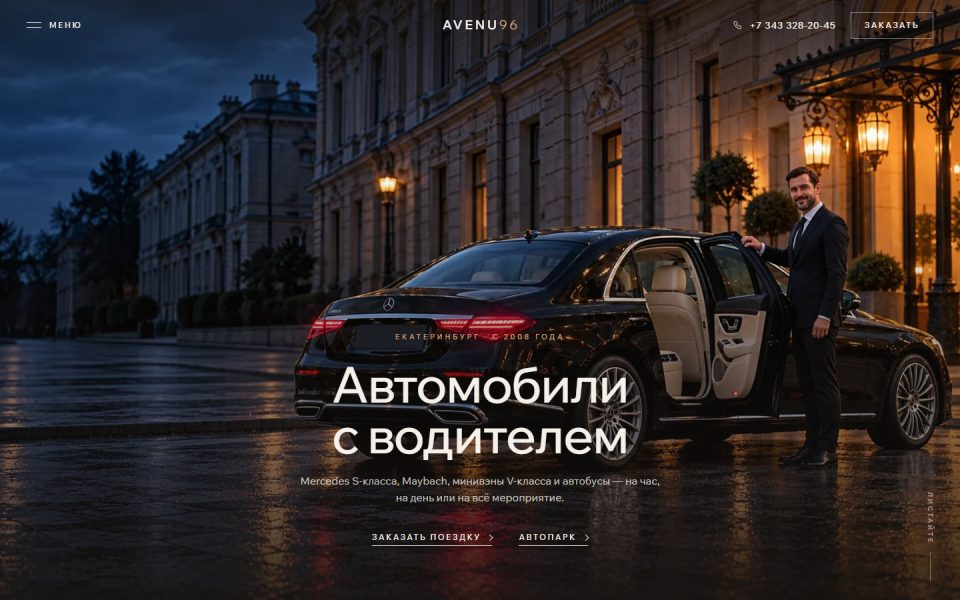
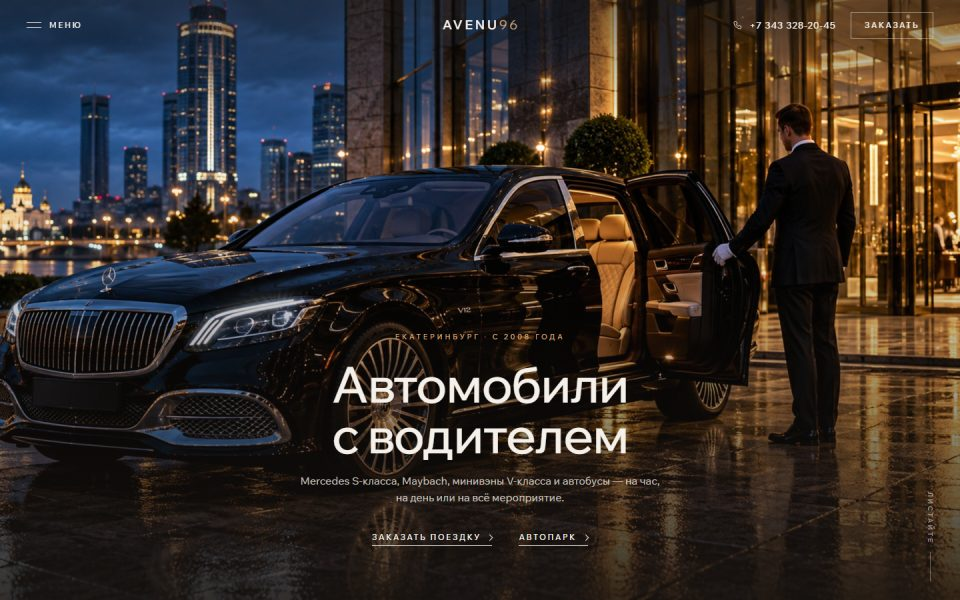
Salon and Light: Yekaterinburg photos

diff --git a/3-lane.html b/3-lane.html
@@ -253,7 +253,7 @@ footer .logo{color:#fff;font-size:22px}
 </header>
 
 <section class="hero" id="top">
-  <div class="hero-bg"><img src="img/l/hero.jpg" alt="Пассажир в салоне Mercedes-Maybach"></div>
+  <div class="hero-bg"><img src="img/ekb/w/business-xl.jpg" alt="Пассажир в салоне Mercedes-Maybach, за окном вечерний Екатеринбург"></div>
   <div class="hero-c">
     <h1>Автомобиль с водителем<br>в Екатеринбурге</h1>
     <div class="seg" id="seg">
@@ -284,10 +284,10 @@ footer .logo{color:#fff;font-size:22px}
   <div class="wrap">
     <div class="svc-head"><h2 class="rise">Под любую задачу</h2><p class="rise">От встречи рейса до свадебного кортежа — подберём автомобиль и водителя.</p></div>
     <div class="cards">
-      <article class="card rise"><div class="im"><img data-par=".12" src="img/p/story-2.jpg" alt="Водитель у Mercedes S-класса" loading="lazy"></div><div class="tx"><small>Трансферы</small><h3>Аэропорт и вокзал</h3><p>Встретим в Кольцово или на вокзале и отвезём по нужному адресу.</p><a class="lnk" href="#top" data-mode="trip">Заказать трансфер</a></div></article>
-      <article class="card rise"><div class="im"><img data-par=".12" src="img/p/cabin-woman.jpg" alt="Пассажир в салоне Maybach" loading="lazy"></div><div class="tx"><small>Почасовая аренда</small><h3>Водитель на весь день</h3><p>От 3 часов: встречи, дела по городу, вечерняя программа.</p><a class="lnk" href="#top" data-mode="hour">Арендовать по часам</a></div></article>
-      <article class="card rise"><div class="im"><img data-par=".12" src="img/p/maybach-event.jpg" alt="Maybach у входа на мероприятие" loading="lazy"></div><div class="tx"><small>События</small><h3>Свадьбы и кортежи</h3><p>Кортежи от 5 до 30 автомобилей одного класса.</p><a class="lnk" href="#top" data-mode="event">Рассчитать кортеж</a></div></article>
-      <article class="card rise"><div class="im"><img data-par=".12" src="img/p/sprinter-vip.jpg" alt="Mercedes Sprinter VIP" loading="lazy"></div><div class="tx"><small>Группы</small><h3>Делегации и корпоративы</h3><p>Минивэны, Sprinter VIP и автобусы до 60 мест.</p><a class="lnk" href="#biz">Для компаний</a></div></article>
+      <article class="card rise"><div class="im"><img data-par=".12" src="img/ekb/w/scen-airport.jpg" alt="Водитель встречает пассажира в Кольцово" loading="lazy"></div><div class="tx"><small>Трансферы</small><h3>Аэропорт и вокзал</h3><p>Встретим в Кольцово или на вокзале и отвезём по нужному адресу.</p><a class="lnk" href="#top" data-mode="trip">Заказать трансфер</a></div></article>
+      <article class="card rise"><div class="im"><img data-par=".12" src="img/p/cabin-man.jpg" alt="Пассажир в салоне Maybach" loading="lazy"></div><div class="tx"><small>Почасовая аренда</small><h3>Водитель на весь день</h3><p>От 3 часов: встречи, дела по городу, вечерняя программа.</p><a class="lnk" href="#top" data-mode="hour">Арендовать по часам</a></div></article>
+      <article class="card rise"><div class="im"><img data-par=".12" src="img/ekb/w/scen-wedding.jpg" alt="Свадебный Mercedes S-класса" loading="lazy"></div><div class="tx"><small>События</small><h3>Свадьбы и кортежи</h3><p>Кортежи от 5 до 30 автомобилей одного класса.</p><a class="lnk" href="#top" data-mode="event">Рассчитать кортеж</a></div></article>
+      <article class="card rise"><div class="im"><img data-par=".12" src="img/ekb/w/scen-delegation.jpg" alt="Минивэны для делегации у конгресс-центра" loading="lazy"></div><div class="tx"><small>Группы</small><h3>Делегации и корпоративы</h3><p>Минивэны, Sprinter VIP и автобусы до 60 мест.</p><a class="lnk" href="#biz">Для компаний</a></div></article>
     </div>
   </div>
 </section>
@@ -296,10 +296,10 @@ footer .logo{color:#fff;font-size:22px}
   <div class="story-in">
     <div class="story-head wrap"><h2>Сядьте. Выдохните.</h2><p>Поездка начинается с одного звонка — дальше всё берём на себя.</p></div>
     <div class="frame">
-      <div class="slide"><img src="img/p/story-1.jpg" alt="Mercedes S-класса и водитель вечером" loading="lazy"></div>
-      <div class="slide"><img src="img/w/hero.jpg" alt="Водитель открывает дверь автомобиля" loading="lazy"></div>
+      <div class="slide"><img src="img/ekb/w/sclass-xl.jpg" alt="Mercedes S-класса на набережной Исети" loading="lazy"></div>
+      <div class="slide"><img src="img/ekb/w/fleet-maybach.jpg" alt="Водитель открывает дверь Maybach" loading="lazy"></div>
       <div class="slide"><img src="img/w/i-maybach.jpg" alt="Салон Mercedes-Maybach" loading="lazy"></div>
-      <div class="slide"><img src="img/p/story-4.jpg" alt="Mercedes S-класса в пути" loading="lazy"></div>
+      <div class="slide"><img src="img/ekb/w/cortege-xl.jpg" alt="Кортеж вдоль набережной Исети" loading="lazy"></div>
       <div class="caps">
         <div class="cap"><b>Подача ко времени</b><span>Автомобиль приезжает к назначенному адресу и часу.</span></div>
         <div class="cap"><b>Встреча у машины</b><span>Водитель встречает вас и открывает дверь.</span></div>
@@ -333,7 +333,7 @@ footer .logo{color:#fff;font-size:22px}
       <p>Кольцово, вокзал, отель, загородная площадка. Скажите, куда и когда — остальное организуем мы.</p>
       <a class="pill dark" href="#top" data-focus>Заказать поездку</a>
     </div>
-    <div class="ph from-r"><img data-par=".1" src="img/p/story-4.jpg" alt="Mercedes S-класса на вечерней улице" loading="lazy"></div>
+    <div class="ph from-r"><img data-par=".1" src="img/ekb/w/city.jpg" alt="Вечерний Екатеринбург с набережной Исети" loading="lazy"></div>
   </div>
 </section>
 

diff --git a/2-salon.html b/2-salon.html
@@ -60,7 +60,7 @@ header.solid{background:rgba(22,18,15,.88);backdrop-filter:blur(18px);-webkit-ba
 
 /* hero */
 .hero{position:relative;height:100vh;height:100svh;min-height:620px;overflow:hidden;display:flex;align-items:flex-end;justify-content:center;text-align:center}
-.hero>img{position:absolute;inset:0;width:100%;height:100%;object-fit:cover;object-position:62% 48%}
+.hero>img{position:absolute;inset:0;width:100%;height:100%;object-fit:cover;object-position:58% 50%}
 .hero:after{content:"";position:absolute;inset:0;background:linear-gradient(180deg,rgba(22,18,15,.55) 0,rgba(22,18,15,0) 22%,rgba(22,18,15,.1) 42%,rgba(22,18,15,.88) 100%)}
 .hero-c{position:relative;z-index:2;padding:0 20px clamp(56px,9vh,96px);max-width:900px}
 .hero .k{font:500 11px/1 var(--text);letter-spacing:.32em;text-transform:uppercase;color:var(--cognac2)}
@@ -221,7 +221,7 @@ footer .mark{color:var(--cream);font-size:17px}
   .hero,.panel,.final{height:100vh;height:100svh;min-height:0;scroll-snap-stop:always}
   footer{scroll-snap-align:end}
   .hero-c,.panel .c{padding-bottom:calc(104px + env(safe-area-inset-bottom))}
-  .hero>img{object-position:86% 50%}
+  .hero>img{object-position:84% 50%}
   .hero h1{font-size:38px}
   .hero p{font-size:15px;margin-bottom:28px}
   .hero .acts{gap:28px}
@@ -278,7 +278,7 @@ footer .mark{color:var(--cream);font-size:17px}
 </nav>
 
 <section class="hero" id="top">
-  <img src="img/w/hero.jpg" alt="Водитель открывает дверь Mercedes S-класса">
+  <img src="img/ekb/w/maybach-xl.jpg" alt="Водитель открывает дверь Mercedes-Maybach у бизнес-центра в Екатеринбурге">
   <div class="hero-c">
     <span class="k rv">Екатеринбург · с 2008 года</span>
     <h1 class="rv">Автомобили<br>с водителем</h1>
@@ -351,7 +351,7 @@ footer .mark{color:var(--cream);font-size:17px}
 </section>
 
 <section class="panel" id="s4">
-  <img src="img/p/maybach-event.jpg" alt="Maybach у входа на мероприятие" loading="lazy">
+  <img src="img/ekb/w/wedding-xl.jpg" alt="Свадебный Mercedes S-класса в Екатеринбурге" loading="lazy">
   <div class="c">
     <span class="n rv">04</span>
     <h2 class="rv">Свадьбы и кортежи</h2>
@@ -423,7 +423,7 @@ footer .mark{color:var(--cream);font-size:17px}
 </section>
 
 <section class="final" id="contact">
-  <img src="img/w/night.jpg" alt="Mercedes S-класса и водитель на набережной вечером" loading="lazy">
+  <img src="img/ekb/w/sclass-xl.jpg" alt="Mercedes S-класса на набережной Исети вечером" loading="lazy">
   <div class="c">
     <span class="k rv">На связи</span>
     <a class="big rv" href="tel:+73433282045">+7 343 328-20-45</a>
